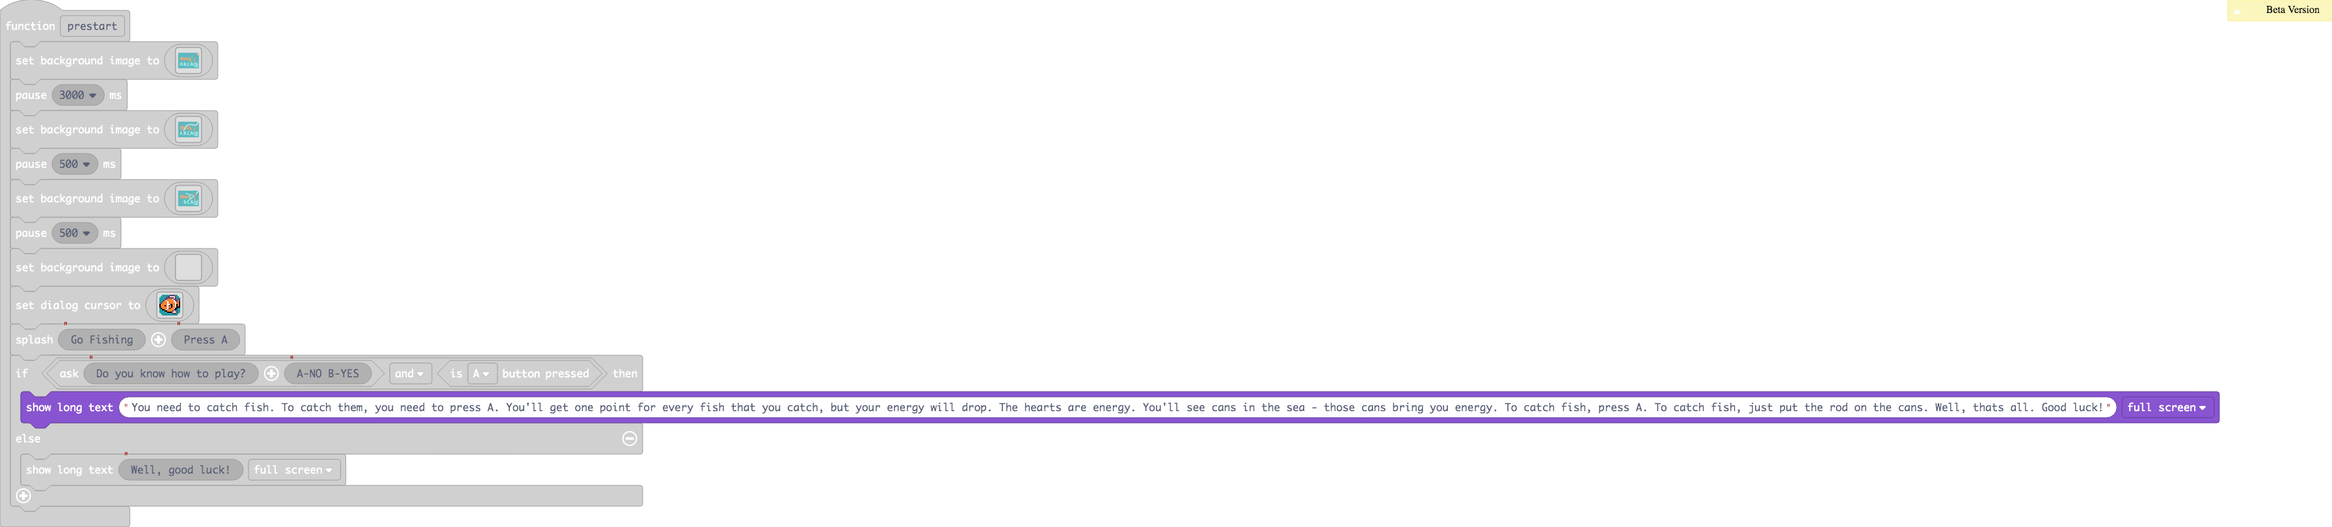
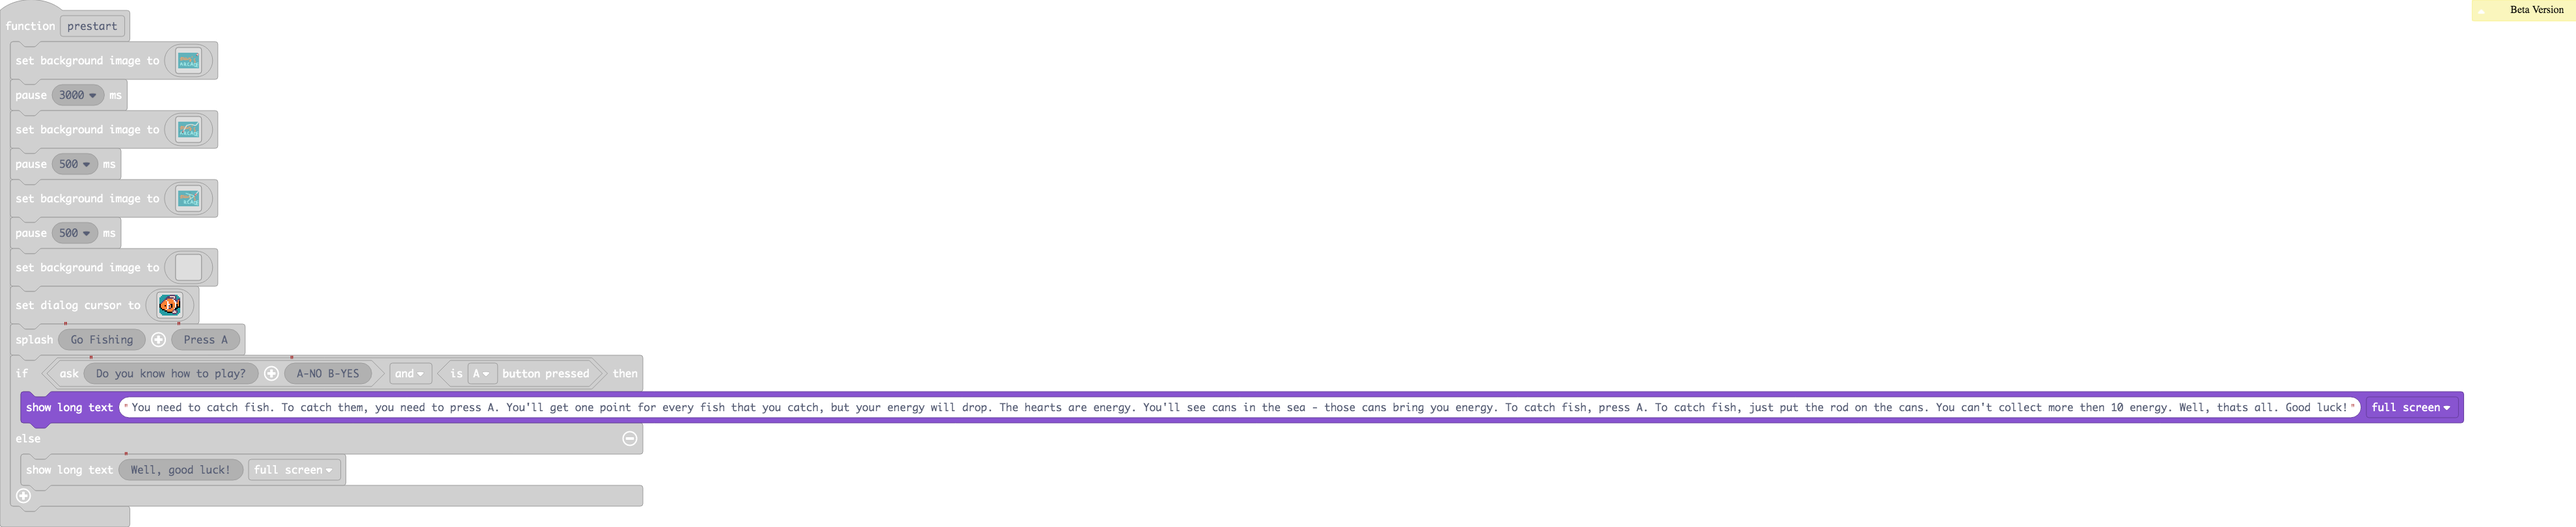
Update main.blocks, main.ts

diff --git a/main.ts b/main.ts
@@ -513,7 +513,7 @@ f 4 4 4 4 4 1 4 4 f 4 4 d f f f
 `)
     game.splash("Go Fishing", "Press A")
     if (game.ask("Do you know how to play?", "A-NO B-YES") && controller.A.isPressed()) {
-        game.showLongText("You need to catch fish. To catch them, you need to press A. You'll get one point for every fish that you catch, but your energy will drop. The hearts are energy. You'll see cans in the sea - those cans bring you energy. To catch fish, press A. To catch fish, just put the rod on the cans. Well, thats all. Good luck!", DialogLayout.Full)
+        game.showLongText("You need to catch fish. To catch them, you need to press A. You'll get one point for every fish that you catch, but your energy will drop. The hearts are energy. You'll see cans in the sea - those cans bring you energy. To catch fish, press A. To catch fish, just put the rod on the cans. You can't collect more then 10 energy. Well, thats all. Good luck!", DialogLayout.Full)
     } else {
         game.showLongText("Well, good luck!", DialogLayout.Full)
     }
